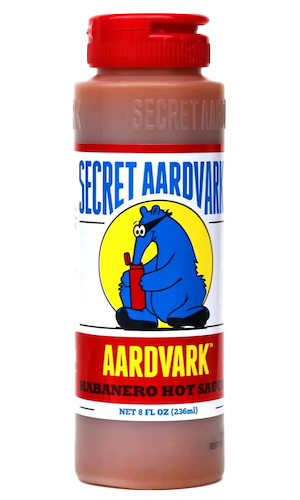
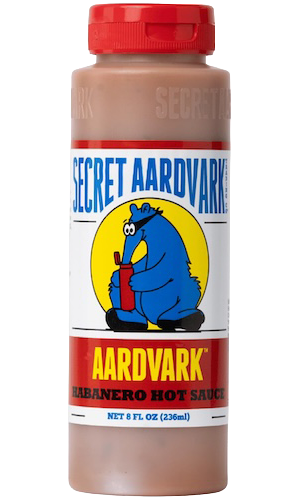
update README to match current features, fix backend link casing
README: describe the dark/light toggle accurately (no longer
system-preference based), note Vite in the tech stack, fix clone URL
casing. app.js: fix GitHub link casing to match the actual repo path.
Also updates the front-end start script and the Secret Aardvark bottle
image.

diff --git a/back-end/app.js b/back-end/app.js
@@ -22,7 +22,7 @@ app.get("/", (req, res) => {
     </style>
     <h1 class="flame">🔥</h1>
     <h1>Welcome to the <a href="https://saucesource.scheiber.dev/">SauceSource</a> Backend!</h1>
-    <p style="text-align:center; font-family: 'Helvetica', 'Arial', sans-serif;"><a href="https://github.com/Scheiber/saucesource">Find out more.</a></p>`
+    <p style="text-align:center; font-family: 'Helvetica', 'Arial', sans-serif;"><a href="https://github.com/scheiber/saucesource">Find out more.</a></p>`
   );
 });
 

diff --git a/README.md b/README.md
@@ -22,7 +22,7 @@ Looking to spice up your life? SauceSource is a web app that allows you to learn
 
 - Clean and easily-navigable user experience is designed to be fully responsive.
 - Looks and works great on both desktop and mobile platforms.
-- Supports dark and light mode based on system preference.
+- Dark/light mode toggle in the navigation bar, persisted across visits.
 - Ability to add, edit, see information about, and delete sauces.
 - Asks to confirm deletion of any sauce, to prevent unintentional user action and data loss.
 - Search sauces by name, sort by name or Scoville rating, and filter by organic or kosher status.
@@ -47,7 +47,7 @@ Looking to spice up your life? SauceSource is a web app that allows you to learn
 
 ## Technical Details
 
-- This project was created using a React-based front-end, an Express-based back-end, and a PostgreSQL database.
+- This project was created using a React-based front-end (bundled with Vite), an Express-based back-end, and a PostgreSQL database.
 - The front-end is hosted on [Netlify](https://www.netlify.com/) and the back-end is hosted on [Fly.io](https://fly.io/).
 - Sauce data is stored in [the back-end database](https://saucesource.fly.dev/sauces).
 - This project went from conception to completion in two weeks and was created while fully remote through the [Pursuit](https://www.pursuit.org/) fellowship.
@@ -66,7 +66,7 @@ Looking to spice up your life? SauceSource is a web app that allows you to learn
 First, clone this repository to your local machine.
 
 ```bash
-git clone git@github.com:Scheiber/saucesource.git
+git clone git@github.com:scheiber/saucesource.git
 ```
 
 It is recommended to use two separate terminal instances so that the front-end and back-end can run concurrently.
